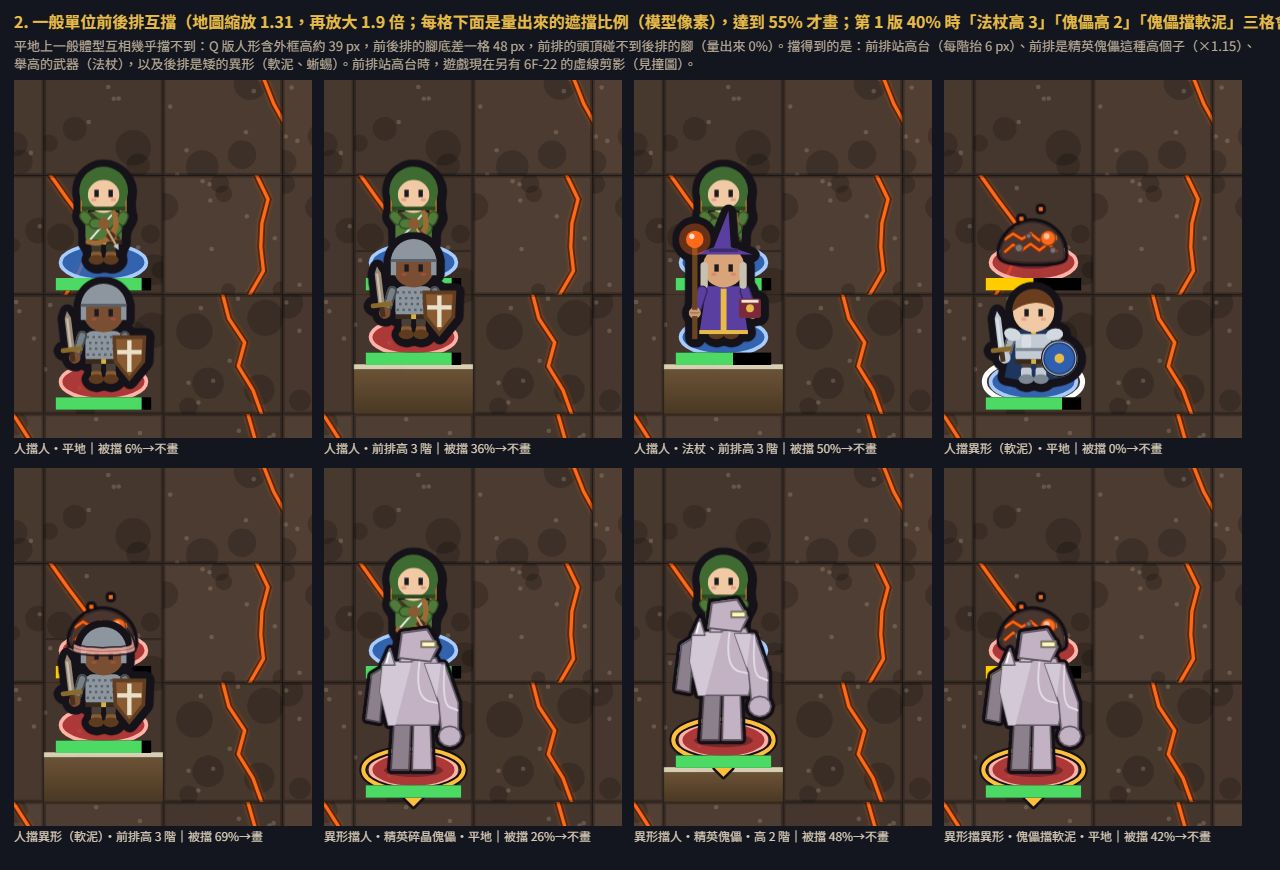
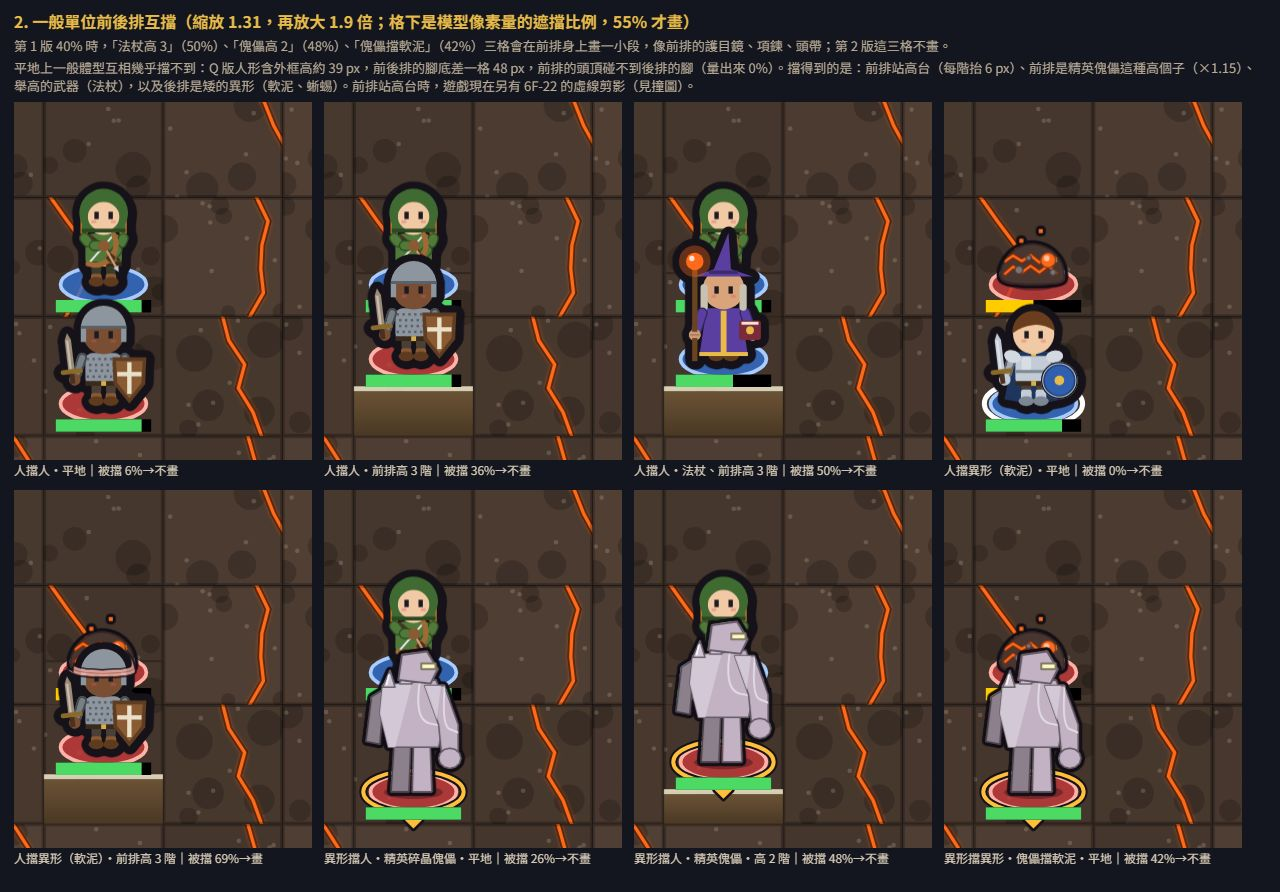
docs(art): occlusion outline v2 record and drawing notes

diff --git a/docs/art/sample/occlude-outline.html b/docs/art/sample/occlude-outline.html
@@ -112,7 +112,8 @@ PARTS.pair = () => {
   const C = (sc, cap) => cell(sc, V, {}, cap, "t");
   const flat = { cols: 4, rows: 4 }, hi = (h) => ({ cols: 4, rows: 4, heights: [[], [], [0, h, 0, 0]] });
   publish(sheet(1280, [
-    { title: "2. 一般單位前後排互擋（地圖縮放 1.31，再放大 1.9 倍；每格下面是量出來的遮擋比例（模型像素），達到 55% 才畫；第 1 版 40% 時「法杖高 3」「傀儡高 2」「傀儡擋軟泥」三格會在前排身上畫一小段）" },
+    { title: "2. 一般單位前後排互擋（縮放 1.31，再放大 1.9 倍；格下是模型像素量的遮擋比例，55% 才畫）" },
+    { note: "第 1 版 40% 時，「法杖高 3」（50%）、「傀儡高 2」（48%）、「傀儡擋軟泥」（42%）三格會在前排身上畫一小段，像前排的護目鏡、項鍊、頭帶；第 2 版這三格不畫。" },
     { note: "平地上一般體型互相幾乎擋不到：Q 版人形含外框高約 39 px，前後排的腳底差一格 48 px，前排的頭頂碰不到後排的腳（量出來 0%）。擋得到的是：前排站高台（每階抬 6 px）、前排是精英傀儡這種高個子（×1.15）、舉高的武器（法杖），以及後排是矮的異形（軟泥、蜥蜴）。前排站高台時，遊戲現在另有 6F-22 的虛線剪影（見撞圖）。" },
     { cells: [
       C(duo(U.archer({ id: "t", x: 1, y: 1 }), U.shield({ id: "f", x: 1, y: 2 }), flat), "人擋人・平地"),

diff --git a/docs/art/被遮擋剪影外框.md b/docs/art/被遮擋剪影外框.md
@@ -1,6 +1,7 @@
-# 被遮擋剪影外框（樣張第 1 版）
+# 被遮擋剪影外框（樣張第 2 版）
 
 > 畫圖 agent，2026-11-12（Opus 5.5）。只有樣張，沒有改遊戲端。過審後交使用者看，之後才寫移植需求。
+> 第 1 版 commit `a803414c`、`08a8e226`；審查 `被遮擋剪影外框-審查.md`（`2a15b805`）。第 2 版照審查改：門檻 55%／45%、透明度 0.8，其餘可修全做（逐條對照見第 9 節）。下面第 2～8 節已改成第 2 版的數字。
 
 ## 1. 依據
 
@@ -21,7 +22,8 @@
 1. 每個單位的**身體遮罩 M**：只要身體（不含地面環、影子、平塗光暈、HUD）。樣張的做法是同一個畫法再畫一次，只留用 `drawImage` 貼上的身體圖層。
 2. 對單位 u，**前排遮罩 O** ＝ 所有在 u **之後**畫的單位的身體遮罩聯集（南邊各排，加上同一排排在它後面的）。
 3. 比例 ＝ |M ∩ O| ÷ |M|，像素 alpha ≥ 0.5 才算。
-4. 比例 ≥ 門檻才畫。
+4. 比例 ≥ 門檻才畫（55%；上一次有畫的降到 45% 以下才拿掉）。
+5. **一律在模型像素算**（1 格 48、原點對齊整數模型像素），不隨地圖縮放、畫面放大、裝置像素變。第 1 版用畫面像素算，同一對在 ×1.9 與 ×4 量到 44% 與 37%；第 2 版樣張另畫一份模型像素的身體遮罩只用來算比例，同一對不管放在哪一格、怎麼裁、放大幾倍都量到同一個值。量測表（`?part=measure`）也是模型像素。
 
 只算單位擋單位。地形（高台崖面、屋頂）不算進 O，因為現在由 6F-22 的舊剪影負責（見 4.1）。
 
@@ -31,15 +33,25 @@
 - **襯黑邊**：色線兩側各 0.75 px 的 `#16121a`（Q 版外框色）。做法是 dilate(M, 0.75) ∩ dilate(反 M, w + 0.75)，畫在色線底下。
 - **只留被擋住的那一段**：上面兩圈都再 ∩ O（襯邊用 dilate(O, 0.75)）。
 - 襯邊和色線先在離屏疊成不透明的一層，**整層**再乘透明度貼上，這樣襯邊不會把色線壓暗。
-- **受擊閃白**：白閃強度 f（人形 0.85 → 0，90 ms 歸零；`motionClips.ts humanHit`）。換成 k ＝ f ÷ 0.85：色線顏色 ＝ mix(陣營色, 白, k)，整層透明度 ＝ 0.6 + 0.4k。線不變粗。
+- **受擊閃白**：k ＝ 當下白閃 ÷ **該片段的峰值**（不寫死人形的 0.85）：色線顏色 ＝ mix(陣營色, 白, k)，整層透明度 ＝ 0.8 + 0.2k。線不變粗。峰值（`OccludeOutline.PEAK`）：
+
+  | 片段 | 峰值 | 形狀 | 出處 |
+  |---|---|---|---|
+  | 人形受擊 | 0.85 | 0.85 → 0，360 ms 片段的 90 ms 歸零 | `client/src/render/motionClips.ts` `humanHit` |
+  | 人形重擊 | 0.95 | 0.95 → 0，120 ms 歸零 | `reactClips.ts` `hit(heavy)` |
+  | 異形受擊 | 0.9 | 前 20% 固定 0.9（400 ms 片段＝80 ms），之後 0 | `qCreatureAnim.ts` `hitCommon`、`creaturePose.ts` `hit` |
+  | 異形重擊 | 0.99 | 異形受擊 × 1.1（上限 1） | `reactClips.ts` `creatureReact` |
+  | 頭目受擊 | 0.9 | 前 20% 固定 0.9 | `qBoss.ts` `bossPlan`（`c === "hit" && u < 0.2 ? 0.9`） |
+  | 召喚物 | 照身體 | 人形身體走人形那兩列，異形身體走異形那兩列 | 同上 |
+
 
 ## 3. 選定數字與理由
 
 | 項目 | 選定 | 理由 |
 |---|---|---|
-| 門檻 | **40%**（量的是身體像素） | 量了 7 種目標 × 7 種前排 × 高度 0～3（`?part=measure`）。平地上一般人形互擋 0～9%（法杖 8%）；精英傀儡擋人 16～23%；頭目擋人 76～100%。20% 時，平地的精英傀儡擋人（只蓋到腳）也會畫，線多又沒有幫助。60% 時，「傀儡擋軟泥」（41%）、「傀儡站高 2 階擋人」（43～47%）這種下半身與所站格子都看不到的情況會漏掉。40% 是「所站的格子看不到」的分界（5a）。 |
+| 門檻 | **55% 開始畫、降到 45% 以下才拿掉**（第 2 版；第 1 版 40%／30%；量的是模型像素的身體像素） | 量了 7 種目標 × 7 種前排 × 高度 0～3（`?part=measure`，模型像素）。頭目擋任何人 74～100%，全部畫。人擋人（含前排高 3、法杖）最高 52%、精英傀儡站高 2 擋人 37～48%，全部不畫：第 1 版 40% 時這一群（被擋者的頭露在外面）只畫出一小段，落在前排的臉上、胸口，看起來像前排的護目鏡、項鍊、頭帶（審查必修 1）。仍會畫的：矮的異形在站高台的人後面（56～96%）、精英傀儡站高 3 擋人（57～60%）。55～70% 那段仍有配件感，見第 9 節。 |
 | 線寬 | **1.5 px**（螢幕 CSS px，不隨地圖縮放） | 1 px 在真 1 倍斷斷續續，在頭目亮橘的核心上幾乎看不到。2 px 加襯邊總寬 3.5 px，看起來像一個新的實心物件，會和頭目的部件縫線混在一起。 |
-| 透明度 | **0.6**（整層） | 0.4 在亮紫晶上不好找。0.8 像選取外框，而且蓋掉頭目的熔岩紋。 |
+| 透明度 | **0.8**（整層；第 2 版，第 1 版 0.6） | 0.6 時友方的淡藍疊在灰燼之心的橘色核心上變成灰色，800 寬要先知道在哪裡才找得到（審查必修 2）。0.8 時 1600 寬讀成淺藍／粉紅，不用並排就分得出陣營。第 1 版寫「0.8 像選取外框」不對：像選取的是**整圈＋不透明**（`9-collide` 第 3 列第 1 格）；只畫被擋那一段時，0.8 的外框只落在頭目身上、不繞被擋者露出的部分，沒有選取感（第 3 格）。熔岩紋只被 1.5 px 的線蓋到一點，頭目認得出來。 |
 | 顏色 | **`RING` 的外框色**：友方 `#a9ccff`、敵方 `#ffb3a8`（第三方 `#dcb3ff`、召喚 `#8ff0e2`） | 出處 `client/src/render/artPalette.ts` 的 `RING`（腳下圈），和現有 6F-22 遮擋剪影同色。`RING.fill`（`#2f6fd0`／`#c63b3b`）與 `TEAM_COLORS`（`client/src/battle/glossary.ts`，`#2f7de1`／`#d23c3c`）在玄武岩殼上太暗。HP 條依血量變色，不是陣營色，不採用。 |
 | 襯黑邊 | **0.75 px × 2 邊**（**新增，初案沒有**） | 只有淺色線時，在碎晶之主的淡紫晶、灰燼之心的亮橘核心上幾乎看不到（第 4 張第 1 欄）。加了黑邊後，深底、淺底都讀得出來（第 2 欄）。 |
 | 範圍 | **只畫被擋住的那一段**（初案寫「只畫輪廓」，這裡再限縮） | 露出來的部分本來就有黑外框，再描一圈色線會像「被選取」。頭目擋人時兩種畫法幾乎一樣（擋了 90% 以上），差在擋一半的情況。 |
@@ -47,23 +59,24 @@
 
 ## 4. 我看到
 
-- **頭目擋人（第 1、7 張）**：灰燼之心擋主角 96%、擋餘燼蜥 100%；碎晶之主擋法師 97%、擋持盾盜匪 92%。現況只看得到頭目，加外框後讀得出「頭目後面有一個人」，也看得出陣營（藍／粉紅）。人形剪影是大頭加短身體，認得出是一個 Q 版人；異形（餘燼蜥）是一條扁長的形，認不出種類，只知道「有東西」。
-- **一般互擋（第 2 張）**：平地上人擋人、人擋異形都是 0%，不會畫。真的會畫的是：法杖、前排站高 3 階（41%）、軟泥被站高 3 階的盜匪擋（56%）、精英傀儡站高 2 階（47%）、平地的傀儡擋軟泥（40%）。前排站高台的情況，遊戲現在本來就有 6F-22 的虛線剪影（4.1）。
-- **受擊（第 3 張）**：0 ms 外框整圈白、30 ms 偏白、60 ms 回到陣營色。露出的身體照舊整片閃白，所以「被打的是被擋住的那個人」看得出來。星爆特效畫在外框上面。
+- **頭目擋人（第 1、7 張）**：頭目擋人量到 74～100%（模型像素）。現況只看得到頭目，加外框後讀得出「頭目後面有一個人」；第 2 版 0.8 時陣營（淺藍／粉紅）不用並排就分得出（第 1 版 0.6 時友方在橘色核心上像灰色）。人形剪影是大頭加短身體，認得出是一個 Q 版人；異形（餘燼蜥）是一條扁長的形，認不出種類，只知道「有東西」。
+- **一般互擋（第 2 張）**：平地上人擋人、人擋異形 0～6%，不會畫。第 2 版 55% 時，8 格裡只剩「軟泥被站高 3 階的持盾盜匪擋」（69%）會畫；法杖前排高 3（50%）、精英傀儡高 2（48%）、平地傀儡擋軟泥（42%）第 1 版會畫、第 2 版不畫。前排站高台的情況，遊戲現在本來就有 6F-22 的虛線剪影（4.1）。
+- **受擊（第 3 張）**：人形 0 ms 外框整圈白、30 ms 偏白、60 ms 回到陣營色；異形（第 3 列）前 80 ms 整圈白、90 ms 起回到陣營色。露出的身體照舊整片閃白，所以「被打的是被擋住的那個人」看得出來。星爆特效畫在外框上面。
 - **真 1 倍（第 6 張兩張）**：1600 寬（一格 62.8 px）時，色線約 1～2 像素、加襯邊共 3 像素，輪廓連續。800 寬（一格 25.5 px）時，人形只有約 20 px 高，3 像素寬的輪廓看起來是一團「圓頭＋身體」，細節（盾、武器）全沒了，只剩「這裡有一個人」。
-- **整張戰場（第 7、8 張）**：1600 寬讀得到。800 寬勉強，要知道它在那裡才看得到。
+- **整張戰場（第 7、8 張）**：1600 寬讀得到。800 寬第 1 版（0.6）要知道在那裡才看得到；第 2 版（0.8）一眼找得到頭目身上有一圈淺藍，但仍只知道「有一個人」。
 
 ### 4.1 撞圖（第 9 張）
 
 | 和什麼 | 會不會混 | 說明 |
 |---|---|---|
+| 傳說金頭目外光（第 2 版補） | 不會 | 碎晶之主的金色外光是 0.8 不透明、算進前排遮罩，所以擋人時外框下半段走在金色光帶上。淺藍／粉紅線加黑襯邊疊在寬的金帶上分得開（`9-collide` 第 3 列第 4 格、`3-flash` 第 2 列、`1-boss` 第 2 列）。 |
 | 受擊白影 | 不會 | 目標受擊時，露出的部分整片白、被擋的部分外框白，兩者合起來是同一個人形。頭目受擊時頭目整片白，目標的外框照舊是陣營色、浮在白色上，仍讀得到。 |
 | 選取框（輪到誰的黃虛線圈） | **不會撞，但看不到** | 黃圈在腳下、被頭目蓋住，外框不會告訴你「輪到他」。見第 5 節。 |
 | 滑鼠白框 | 輕微 | 白框是方的、在外框之上；外框受擊變白的那一兩格會和白框疊在一起，但形狀不同，分得開。 |
 | 腳下圈 | 不會 | 外框只畫身體，不畫環。被擋的人的環也被頭目蓋住，看不到。 |
 | 狀態列、HP 條 | 不會 | 被擋的人的 HP 條、狀態列在他那一排的 HUD 層，本來就被南邊一排的頭目蓋住（現況就是這樣）。外框沒有把它們拉出來。頭目自己的 HUD 在剪影上方，和外框的頭頂很近，樣張裡沒有重疊（頭目 HUD 的位置是近似的，實機要再看）。 |
 | Q 版本身的黑外框 | 有一點 | 襯黑邊和 Q 版外框同色，外框看起來像「一個半透明、畫在前面的 Q 版輪廓」。因為整層 0.6，讀起來還是「疊上去的」。改成不透明、整圈都畫，就會像選取效果（第 9 張右下，不採用）。 |
-| **6F-22 高台遮擋剪影** | **會撞** | 前排站高台時，兩種都會畫：舊的是固定的人形虛線（身體橢圓＋頭圓），新的是真實輪廓。舊的不看體型，套在軟泥上會在軟泥頭上多畫一個人形（第 9 張左下）。建議由新外框取代（第 6 節）。 |
+| **6F-22 高台遮擋剪影** | 第 1 版會撞；第 2 版樣張已照規則分開 | 舊的是固定的人形虛線（身體橢圓＋頭圓），不看體型，套在軟泥上會在軟泥頭上多畫一個人形（`9-collide` 第 2 列第 1 格）。兩個都畫很亂（第 2 格，第 1 版）。第 2 版：**同一個單位有新外框時不畫舊的**（第 3 格）；沒達門檻、或只被地形擋時舊的照畫（第 4 格，晶塔 38%）。 |
 
 ## 5. 仍不好認
 
@@ -71,49 +84,98 @@
 2. **異形的剪影**：蜥蜴、軟泥這種扁的、圓的形，輪廓讀不出種類。
 3. **被擋的人是不是輪到他**：黃色虛線圈在腳下、被蓋住，外框沒有表達「現在行動」。要靠行動順序列。
 4. **被擋住的人的血量與狀態**：HP 條、狀態列照舊被蓋住（現況就是這樣，這次沒處理）。
-5. **門檻附近會閃**：比例在 40% 上下（例如法杖、前排高 3 階量到 38～41%，算的解析度不同就差幾 %），待機呼吸或出招時會一下畫一下不畫。移植時要做遲滯（第 6 節）。
+5. **門檻附近會閃**：第 2 版比例固定在模型像素算，不再隨解析度跳；離 55% 最近的是「盜匪在高 3 法師後」52%（不畫）與「餘燼蜥在高 3 持盾盜匪後」56%（畫）。待機呼吸、出招仍會讓比例變幾 %，所以照留遲滯（55% 開始、45% 拿掉）。
+6. **55～70% 那段仍像前排的配件**（第 2 版放大看的結論，第 9 節）。
 
 ## 6. 給開發移植的重點（建議，未改遊戲端）
 
 1. **放哪一層**：用現成的 `silhouettes` 容器（排與 HUD 之上、`hudTop`、`hover`、特效之下）。每個被擋的單位一張外框 Sprite，跟著那個單位的位置走。
 2. **遮擋比例**：
    - 什麼時候算：只在擺位改變時算（`draw(model)`、移動結束、換姿勢、轉向），**不要每格都算**。待機用第 0 格的姿勢算。
-   - 怎麼算：用每個單位身體貼圖的 alpha，在模型像素（1 格 48）或更低的解析度（每 2 模型像素取 1）上，用 CPU 求 |M ∩ O| ÷ |M|。身體貼圖本來就在 `ArtTextures` 裡有快取（白閃用的 `whiteCanvas` 也是從同一張畫布來）。alpha 遮罩照貼圖的鍵快取，同一個鍵只取一次 `getImageData`。
+   - 怎麼算：用每個單位身體貼圖的 alpha，**一律在模型像素（1 格 48）上算，不隨地圖縮放**（原點對齊整數模型像素），用 CPU 求 |M ∩ O| ÷ |M|。不要用畫面像素或「每 2 模型像素取 1」：解析度不同，同一對會差到 7 個百分點（第 1 版 37%／44%）。樣張的量測表就是模型像素量的。身體貼圖本來就在 `ArtTextures` 裡有快取（白閃用的 `whiteCanvas` 也是從同一張畫布來）。alpha 遮罩照貼圖的鍵快取，同一個鍵只取一次 `getImageData`。
    - 只比對有可能重疊的：前排要在 u 南邊 0～3 排，而且外接矩形和 u 的外接矩形相交。一般只有 0～2 個。
    - 只算單位身體。不算環、影子、HUD、特效。
-3. **遲滯**：比例 ≥ 40% 開始畫，降到 < 30% 才拿掉。走路、擊退、出招片段播放中不重算，沿用片段開始前的結果（片段結束再算一次）。
+3. **遲滯**：比例 ≥ 55% 開始畫，降到 < 45% 才拿掉。走路、擊退、出招片段播放中不重算，沿用片段開始前的結果（片段結束再算一次）。
 4. **外框貼圖**：每個「身體貼圖鍵 × 縮放級距」做一次：先算色線帶與襯邊帶（樣張 `band()`：圓盤膨脹用 0.5 px 步距的多次 `drawImage`，或 Pixi 的濾鏡），再 ∩ 前排遮罩（前排遮罩因擺位而變，這一步跟著比例一起在擺位改變時做）。線寬照**螢幕 CSS px** 算：模型 px ＝ 1.5 ÷ 地圖縮放（800 寬 0.53 → 2.8 模型 px；1600 寬 1.31 → 1.15 模型 px）。
-5. **受擊閃白**：色線用白色畫進貼圖，襯邊用黑色畫，Sprite.tint ＝ mix(陣營色, 白, k)，alpha ＝ 0.6 + 0.4k（k ＝ 白閃 ÷ 0.85，和身體白閃同一個值）。tint 是相乘，黑色襯邊不受影響，不用另外做貼圖。
+5. **受擊閃白**：色線用白色畫進貼圖，襯邊用黑色畫，Sprite.tint ＝ mix(陣營色, 白, k)，alpha ＝ 0.8 + 0.2k。**k ＝ 該單位當下的白閃 ÷ 正在播的片段的峰值**（人形受擊 0.85、人形重擊 0.95、異形與頭目受擊 0.9、異形重擊 0.99；召喚物照身體；出處見 2.2），不要寫死 0.85。tint 是相乘，黑色襯邊不受影響，不用另外做貼圖。
 6. **陣營色**：`RING[team].stroke`（召喚物用 `RING.summon.stroke`），和 6F-22 一樣，不新增色票。
-7. **通用**：玩家、NPC、異形、頭目、召喚物都走同一條路（都有身體貼圖）。不畫外框的：倒下的人（倒地圖示）、**隱匿中（`concealed`）或資訊被隱藏的敵人**。這兩種畫了外框會洩漏位置，要照現在的可見規則先過濾。
-8. **6F-22 的舊剪影**：建議之後把高台崖面、屋頂也畫進前排遮罩，用同一個外框取代虛線橢圓。舊的是固定人形，套在異形、頭目身上是錯的形。這一步要另外決定（第 7 節第 3 點），樣張只示範撞在一起的樣子。
+7. **通用**：玩家、NPC、異形、頭目、召喚物都走同一條路（都有身體貼圖）。不畫外框的：倒下的人（倒地圖示）、**隱匿中（`concealed`）或資訊被隱藏的敵人**。這兩種畫了外框會洩漏位置，要照現在的可見規則**在算比例之前**先過濾（樣張的單位帶 `concealed: true` 就不畫）。
+8. **6F-22 的舊剪影，分兩步**：
+   - **這次移植就做**：同一個單位這一格有新外框時，不畫舊剪影（樣張 `render` 已照這條：`9-collide` 第 2 列第 3 格）。沒畫新外框的（沒達門檻、或只被地形擋）照舊畫舊剪影，**不能先拿掉**。
+   - **之後另排一段**：把高台崖面、屋頂也算進前排遮罩，讓新外框涵蓋地形遮擋，再拿掉舊剪影。舊的是固定人形，套在異形、頭目身上是錯的形。
 9. **效能預估**：12×12 地圖、最多約 12 個單位，擺位改變時每個單位最多比 2～3 對，遮罩每個約 60×60 模型像素，CPU 運算在 1 ms 以內。外框貼圖照鍵快取。每格的成本只有幾張 Sprite 的 tint／alpha。
 
 ## 7. 交使用者時要講明
 
-1. 數字和初案相同（40%、1.5 px、0.6、陣營色、閃白、圖層），但**多了兩點**：色線兩側各襯 0.75 px 黑邊（不然在淺紫晶、亮橘核心上看不到），以及**只畫被擋住的那一段**（露出來的部分不重描）。
-2. **平地上一般單位互相幾乎擋不到**（量出來 0%），外框實際上幾乎只出現在：頭目、精英傀儡這種高個子的後面，以及前排站高台的時候。
-3. 前排站高台時，遊戲現在已經有一個舊的虛線人形剪影（6F-22）。這次樣張只在撞圖示範兩個一起畫的樣子；要不要用新外框取代舊的，請使用者決定。
-4. 800 寬時外框只能告訴你「這裡有一個人」，看不出是誰。
+1. 數字和初案**不同兩項**：門檻 **55%（降到 45% 才拿掉）**（初案 40%）、透明度 **0.8**（初案 0.6）；線寬 1.5 px、陣營色、閃白、圖層同初案。另外**多了兩點**：色線兩側各襯 0.75 px 黑邊（不然在淺紫晶、亮橘核心上看不到），以及**只畫被擋住的那一段**（露出來的部分不重描）。
+2. 外框實際上幾乎只出現在：**頭目、精英傀儡這種高個子的後面**，以及**矮的異形躲在站高台的人後面**。一般人擋人（含前排站高台）都不畫，因為頭露在外面本來就認得出。
+3. **55～70% 的人形或精英傀儡前排，外框那一段仍像前排的配件**（第 9 節）。要使用者選：照 55% 接受、或只給頭目（提案 C）。
+4. 6F-22 舊剪影：**這次移植時同一單位有新外框就不畫舊剪影**；之後另排一段把崖面、屋頂算進遮擋，再拿掉舊剪影（在那之前，只被地形擋的仍靠舊剪影）。
+5. 800 寬時外框只能告訴你「這裡有一個人，是友是敵」，看不出是誰；被擋的人是不是輪到他、血量多少，外框都不會告訴你（要靠行動順序列）。
+6. 隱匿中、資訊被隱藏的敵人、倒下的人不畫外框（畫了會洩漏位置）。
 
 ## 8. 檔案與重拍
 
 - 畫法檔 `sample/occludeOutline.js`、樣張頁 `sample/occlude-outline.html`。分段：`?part=boss`、`pair`、`flash`、`team`、`tune`、`true1x&w=1600｜800`、`field&w=1600｜800`、`collide`、`measure`（量測表文字），以及 `probe&s=ah-ally｜ah-enemy｜sl-ally｜sl-enemy｜mage3｜ooze-golem｜golem2&z=&ink=&alpha=&width=`（單一場景放大自查）。
 - 重拍：`uv run python -I docs/art/sample/tools/occlude_shots.py <暫存資料夾> [名稱…] [--out <資料夾>]`；`--measure` 印量測表；`--query "part=probe&s=sl-ally&z=4"` 拍單張到 `<out>/probe.jpg`。頁面把整段畫成一張 canvas，腳本用無頭 Chrome `--dump-dom` 取出 data URL 直接存檔，所以像素就是 canvas，不受視窗大小、DPR 影響。
-- 截圖（10 張）：
+- 截圖（11 張，第 2 版全部重拍；審查補拍的 `closeup/occlude/review-*` 留著，是第 1 版的數字）：
 
 | 檔案 | 內容 |
 |---|---|
 | `shots/occlude/1-boss.jpg` | 第 1 項：灰燼之心（CB-4 情境）、碎晶之主各擋友方、敵方；左邊是現況 |
 | `shots/occlude/2-pairs.jpg` | 第 2 項：人擋人、人擋異形、異形擋人、異形擋異形（平地與高台） |
-| `shots/occlude/3-flash.jpg` | 第 3 項：受擊 0／30／60／90／180／300 ms，兩位頭目各一列 |
+| `shots/occlude/3-flash.jpg` | 第 3 項：受擊 0／30／60／90／180／300 ms，兩位頭目擋人形各一列，第 3 列灰燼之心擋餘燼蜥（異形峰值 0.9） |
 | `shots/occlude/4-team.jpg` | 第 4 項：友方、敵方 × 四種配色（含選定的襯黑邊） |
-| `shots/occlude/5-tune.jpg` | 第 5 項：門檻約 20／40／60%、線寬 × 透明度 9 格 × 2、只畫被擋段 vs 整圈、襯邊 vs 只有色線 |
+| `shots/occlude/5-tune.jpg` | 第 5 項：門檻（傀儡擋弓手 26／48／60%、傀儡擋軟泥 42%；標第 1 版 40% 與第 2 版 55% 畫不畫）、線寬 × 透明度 9 格 × 2（選定 1.5 px・0.8）、只畫被擋段 vs 整圈、襯邊 vs 只有色線 |
 | `closeup/occlude/6-true1x-1600.png` | 第 6 項：真 1 倍（一格 62.8 px）＋最近鄰 ×3 |
 | `closeup/occlude/6-true1x-800.png` | 第 6 項：真 1 倍（一格 25.5 px）＋最近鄰 ×6 |
 | `shots/occlude/7-field-1600.jpg` | 第 6 項：整張熔心坑，1600 寬的縮放 1.31（1 倍） |
 | `shots/occlude/8-field-800.jpg` | 第 6 項：整張熔心坑，800 寬的縮放 0.53（1 倍） |
-| `shots/occlude/9-collide.jpg` | 撞圖：受擊白影、頭目受擊、輪到誰的黃圈、滑鼠白框＋狀態列、6F-22 舊剪影、整圈不透明對照 |
+| `shots/occlude/9-collide.jpg` | 撞圖：受擊白影、頭目受擊、輪到誰的黃圈、滑鼠白框＋狀態列；6F-22 舊剪影（現況／第 1 版兩個都畫／第 2 版有新外框就不畫舊的／未達門檻舊的照畫）；整圈不透明／整圈 0.8／選定 0.8／傳說金外光 |
+| `closeup/occlude/10-fragment-55-70.jpg` | 第 2 版：前排是人形或精英傀儡、被擋 55～70% 的 6 對（無｜有），加提案 A（70% 時還會畫的 4 對）、提案 B（虛線） |
 
 - 縮放怎麼算的：照 `stageLayout.ts` 的 `fitScale` 與 `hudSideInsets`，用熔心坑 12×12（588×630 模型像素，上方預留取約 54）。1600×900 視窗 → min(1076/588, 824/630) ＝ 1.31；800×600 視窗 → min(312/588, 524/630) ＝ 0.53。截圖只有地圖，沒有 HUD 欄。
+- 樣張自己的參數：`opt.was={id:true}`（上一次有畫，用 45%）、`opt.legacyAlways`（第 1 版的兩個都畫）、`opt.dash／gap`（提案 B 的虛線試做，預設不用）、單位 `concealed: true`（不畫外框）。
 - 樣張和遊戲不同的地方：沒有畫朝向三角形；頭目 HUD 的位置用「身體遮罩頂端 − 8」近似 `bossHudDy`；受擊特效用樣張的星爆，時間沒有照 CB-4 片段。
+
+## 9. 第 2 版（2026-11-12，照 `被遮擋剪影外框-審查.md`）
+
+保留不動：色線兩側 0.75 px 黑襯邊、只畫被擋住的那一段、線寬 1.5 px（螢幕 CSS px）、顏色 `RING.stroke`（友 `#a9ccff`、敵 `#ffb3a8`）。
+
+### 9.1 逐條對照
+
+| 審查 | 第 2 版怎麼做 | 看哪張 |
+|---|---|---|
+| 必修 1：門檻改 55% 開始、45% 以下拿掉 | `OccludeOutline.DEF` 改 `threshold: 0.55`、`release: 0.45`（`opt.was[id]` 表示上一次有畫，就用 0.45）。人擋人（最高 52%）、精英傀儡高 2 擋人（37～48%）、傀儡擋軟泥（42%）都不畫了；第 1 版的護目鏡、項鍊、頭帶三格消失。 | `2-pairs`、`5-tune` 5a、`9-collide` 第 2 列 |
+| 必修 1：放大看 55～70% 人形／精英傀儡前排 | 另拍 `10-fragment-55-70.jpg`。**結論：仍像配件**，見 9.2。 | `10-fragment-55-70` |
+| 必修 2：透明度 0.6 → 0.8 | `DEF.alpha: 0.8`；閃白時 0.8 + 0.2k。1600 寬友方讀成淺藍、不再是灰；800 寬整張圖一眼找得到頭目身上那一圈。 | `1-boss`、`4-team`、`6-true1x-*`、`7`、`8`、`5-tune` 5b |
+| 可修 1：撞圖表補傳說金頭目外光 | 4.1 補一列；`9-collide` 第 3 列第 4 格。 | `9-collide` |
+| 可修 2：閃白峰值不寫死 0.85 | `OccludeOutline.PEAK`（人形受擊 0.85、人形重擊 0.95、異形與頭目受擊 0.9、異形重擊 0.99、召喚物照身體；出處在 2.2）。`3-flash` 加第 3 列：灰燼之心擋餘燼蜥，異形受擊前 80 ms 固定 0.9，k＝1 整圈白；撞圖的頭目受擊改用 0.9。 | `3-flash`、`9-collide` 第 1 列 |
+| 可修 3：比例固定在模型像素 | `render` 另畫一份模型像素（原點對齊整數）的身體遮罩，只用來算比例。同一對不管在哪一格、怎麼裁、放大幾倍都同一個值（量測表與 `10-fragment` 的格子對得上）。移植重點第 2 點改寫。 | `?part=measure` |
+| 可修 4：第 69 行殘留 | `(u.dx ? 0 : 0)` 刪掉。 | — |
+| 可修 5：「0.8 像選取」改寫 | 第 3 節透明度一列改寫：像選取的是整圈＋不透明；只畫被擋段時 0.8 沒有選取感。`9-collide` 第 3 列排了整圈不透明／整圈 0.8／選定 0.8 三格對照。 | `9-collide` 第 3 列 |
+| 第 5 節（6F-22） | 樣張 `render` 照規則：同一單位有新外框就不畫舊剪影（`legacyAlways` 是第 1 版對照）。移植重點第 8 點、交使用者第 4 點寫明兩步。 | `9-collide` 第 2 列 |
+| 隱匿中、資訊被隱藏的敵人 | 移植重點第 7 點補「在算比例之前先過濾」；樣張單位帶 `concealed: true` 就不畫。交使用者第 6 點。 | — |
+
+### 9.2 55～70% 人形或精英傀儡前排放大看的結論：**仍像前排的配件**
+
+`10-fragment-55-70.jpg` 前 3 列（縮放 1.31 再放大 3 倍，55%、0.8）：
+
+- 弓手、盜匪在高 3 精英傀儡後（60%、59%）：傀儡胸口一個 U 形淺藍／粉紅圈，像**項鍊、領口**。被擋者的頭整個露在傀儡頭後面，本來就認得出是誰。
+- 軟泥在高 3 主角後（57%）：主角額頭一條粉紅橫帶，像**頭帶**。
+- 餘燼蜥在高 3 持盾盜匪後（56%）：頭盔上一圈粉紅，像**頭盔的飾條**。
+- 餘燼蜥在高 2 法師後（67%）、晶塔在高 3 法師後（66%）：粉紅線繞在帽簷、帽身上，像**帽子的花邊**。
+
+原因：前排和被擋者差不多大時，外框整段落在前排身上、範圍比前排小，讀起來就是前排身上的一個零件。頭目擋人時，外框是一個完整的小人形浮在大身體上，才讀得出「後面有一個人」。
+
+另外試了兩個做法（只在樣張試，**沒有改選定值**）：
+
+- **提案 A：門檻再拉到 70%（降到 60% 才拿掉）**——第 4 列。頭目擋人最低 74%（法師在灰燼之心後），全部仍會畫；但 70% 以上的人形／傀儡前排（餘燼蜥在高 2 傀儡後 70%、軟泥在高 1 傀儡後 72%、餘燼蜥在高 3 法師後 73%、軟泥在高 2 法師後 78%）外框仍落在前排身上，像**腰帶、領口、帽緣**。**不解決**，而且和頭目只差 4 點。
+- **提案 B：外框改虛線**（實線 3 px、空 2 px，同 6F-22 的虛線語言）——第 5 列。傀儡胸口那圈變成虛線後比較像「後面的輪廓」，配件感少一點；但餘燼蜥、晶塔這種輪廓轉折多的，虛線碎成一堆短斜線，比實線更亂。800 寬時 1.5 px 的 3／2 虛線會斷成點（沒另拍）。**部分解決**，樣張的虛線是近似做法（以中心切扇形），移植要沿輪廓長度切才會均勻。
+
+**建議（提案 C，要使用者決定）：只在前排是頭目時畫**（或「前排身體像素 ≥ 被擋者的 2 倍」這種體型條件，效果相同：只有頭目、超大型異形會過）。理由：
+1. 這次要解的是 CB-4「頭目擋住目標」，頭目擋人 74～100%，外框讀得出「後面一個人」，沒有配件感。
+2. 人形、精英傀儡前排的情況，被擋者多半露頭或露尾巴，本來就看得到；外框加上去只多一件不存在的配件。
+3. 其中站高台的情況，遊戲現在本來就有 6F-22 的舊剪影。
+
+若使用者要保留 55%，接受「55～70% 那段會像配件」即可，畫法不用再改。選定值目前照審查留在 55%／45%。

diff --git a/docs/art/上手-畫法.md b/docs/art/上手-畫法.md
@@ -1,6 +1,6 @@
 # 畫圖 agent 上手：Q 版畫法
 
-> 給新派的畫圖 agent，開工前讀這一份。只寫事實與做法。2026-11-12，畫圖 agent 整理（第 2 批防具飾品後補了第 1 節檔案表、2.6 與第 4 節指令；同日第 1 批第 2 版後補了 2.5、4.4 與第 6 節；第 3 版後再補 2.5 與第 6 節；第 2 批第 3 版後改了 2.6 的染色做法、補第 6 節）（依據「小圖示改 Q 版」第 1 批實際做過、讀過的內容；沒確認過的檔案只列檔名與檔頭自述）。 第 3 批技能主圖後補 2.7、第 1 節檔案表與第 4 節指令；第 3 批第 2 版後補第 6 節；第 3 批第 3 版後再補第 6 節。第 4 批徽章與部件後補 2.8、第 1 節檔案表與第 4 節指令。同日補真 1 倍檢查（各頁 `?part=true1x`、`qicons_shots.py true1x`，改了 4.1、4.2、4.4 與第 1 節檔案表）。前三批真 1 倍修正後補 2.5 最後一條、第 6 節一列。第 4 批第 2 版後補 2.8 後半、2.5 的貼法現況與第 6 節第 4 批一表。第 5 批狀態後補 2.9、第 1 節檔案表與第 4 節指令（`status` 改指第 5 批，風格樣張的狀態特寫叫 `style-status`）。第 5 批第 2 版後改 2.9、補第 6 節第 5 批一表與第 4 節 `status-v2`。第⑤b 批關鍵字與 QI-1a 驗收後同步後補 2.10、第 1 節檔案表（`qIconsKeywords.js`、`def(look, icon)`）與第 4 節指令（`keywords`、`--hash var`、`--audit r6`）。第⑤b 批第 2 版後改 2.10（角落改成右下為主＋例外表）、補第 6 節第⑤b 批一表與第 4 節 `keywords-bag`、`keywords-v2`、`--hash keywords`。11-12 補道具與第④批補圖後補 2.11 與第 4 節 `skills-add`、`parts-v3`。11-12 補道具第 2 版後補第 6 節一表與第 4 節 `skills-add-v2`。 11-12 被遮擋剪影外框後補 4.5（畫法檔、頁面、`occlude_shots.py`）。
+> 給新派的畫圖 agent，開工前讀這一份。只寫事實與做法。2026-11-12，畫圖 agent 整理（第 2 批防具飾品後補了第 1 節檔案表、2.6 與第 4 節指令；同日第 1 批第 2 版後補了 2.5、4.4 與第 6 節；第 3 版後再補 2.5 與第 6 節；第 2 批第 3 版後改了 2.6 的染色做法、補第 6 節）（依據「小圖示改 Q 版」第 1 批實際做過、讀過的內容；沒確認過的檔案只列檔名與檔頭自述）。 第 3 批技能主圖後補 2.7、第 1 節檔案表與第 4 節指令；第 3 批第 2 版後補第 6 節；第 3 批第 3 版後再補第 6 節。第 4 批徽章與部件後補 2.8、第 1 節檔案表與第 4 節指令。同日補真 1 倍檢查（各頁 `?part=true1x`、`qicons_shots.py true1x`，改了 4.1、4.2、4.4 與第 1 節檔案表）。前三批真 1 倍修正後補 2.5 最後一條、第 6 節一列。第 4 批第 2 版後補 2.8 後半、2.5 的貼法現況與第 6 節第 4 批一表。第 5 批狀態後補 2.9、第 1 節檔案表與第 4 節指令（`status` 改指第 5 批，風格樣張的狀態特寫叫 `style-status`）。第 5 批第 2 版後改 2.9、補第 6 節第 5 批一表與第 4 節 `status-v2`。第⑤b 批關鍵字與 QI-1a 驗收後同步後補 2.10、第 1 節檔案表（`qIconsKeywords.js`、`def(look, icon)`）與第 4 節指令（`keywords`、`--hash var`、`--audit r6`）。第⑤b 批第 2 版後改 2.10（角落改成右下為主＋例外表）、補第 6 節第⑤b 批一表與第 4 節 `keywords-bag`、`keywords-v2`、`--hash keywords`。11-12 補道具與第④批補圖後補 2.11 與第 4 節 `skills-add`、`parts-v3`。11-12 補道具第 2 版後補第 6 節一表與第 4 節 `skills-add-v2`。 11-12 被遮擋剪影外框後補 4.5（畫法檔、頁面、`occlude_shots.py`）；同日第 2 版後改 4.5（預設值、模型像素量比例、`PEAK`、`fragment`、學到的）。
 > 細節的真相來源：圖示規則 `Q版小圖示樣張.md` 第 2 節；審查紀錄 `Q版小圖示樣張-審查.md`；品質底線 `../美術PM交接.md` 第 3 節；樣張檔一覽 `sample/README.md`。
 
 ## 1. 畫法檔在哪、各管什麼
@@ -295,12 +295,12 @@ uv run python docs/art/sample/tools/qicons_shots.py --page q-icons-parts.html --
 
 ### 4.5 被遮擋剪影外框（11-12）
 
-- 畫法檔 `sample/occludeOutline.js`：`OccludeOutline.render(scene, view, opt)` 畫一個戰場場景（單位呼叫 `QDoll.stamp`、`QCreature.stamp`、`QBoss.drawAshenHeart／drawShardLord`，地面 `Regions4.tile`），回傳 `{ canvas, stats:[{ id, ratio, drawn }] }`。`view＝{ S 遊戲地圖縮放, zoom 另外放大, res 裝置像素, x0, y0, w, h 模型像素裁切 }`；`opt` 的預設值在 `OccludeOutline.DEF`（門檻 0.4、線寬 1.5、透明度 0.6、`tone: "stroke"`、`clip: "hidden"`、襯黑邊 `ink: 0.75`）。遊戲端常數（格 48、`DOLL_PX`、`FEET`、`RAISE`、`RING`）照抄在檔頭。
-- 樣張頁 `sample/occlude-outline.html`：`?part=boss｜pair｜flash｜team｜tune｜true1x&w=1600｜800｜field&w=1600｜800｜collide｜measure`；`?part=probe&s=ah-ally&z=4&ink=0.75` 是單一場景放大自查。每段畫成**一張 canvas**，data URL 放在 `<textarea id="out">`。
+- 畫法檔 `sample/occludeOutline.js`：`OccludeOutline.render(scene, view, opt)` 畫一個戰場場景（單位呼叫 `QDoll.stamp`、`QCreature.stamp`、`QBoss.drawAshenHeart／drawShardLord`，地面 `Regions4.tile`），回傳 `{ canvas, stats:[{ id, ratio, drawn }] }`。`view＝{ S 遊戲地圖縮放, zoom 另外放大, res 裝置像素, x0, y0, w, h 模型像素裁切 }`；`opt` 的預設值在 `OccludeOutline.DEF`（第 2 版：門檻 0.55、`release: 0.45`（`opt.was[id]` 上一次有畫才用）、線寬 1.5、透明度 0.8、`tone: "stroke"`、`clip: "hidden"`、襯黑邊 `ink: 0.75`）。遮擋比例一律在**模型像素**算（`render` 另畫一份原點對齊整數的模型像素遮罩），不隨 `S`、`zoom`、`res` 變。受擊白閃的峰值表在 `OccludeOutline.PEAK`（人形 0.85／重擊 0.95、異形與頭目 0.9、異形重擊 0.99），外框 `opt.flash[id]` 傳的是 k＝白閃 ÷ 峰值。其他：`opt.legacyAlways`（6F-22 舊剪影照畫；預設有新外框就不畫）、`opt.dash／gap`（虛線試做）、單位 `concealed: true`（不畫外框）。遊戲端常數（格 48、`DOLL_PX`、`FEET`、`RAISE`、`RING`）照抄在檔頭。
+- 樣張頁 `sample/occlude-outline.html`：`?part=boss｜pair｜flash｜team｜tune｜true1x&w=1600｜800｜field&w=1600｜800｜collide｜fragment｜measure`（`fragment`＝55～70% 人形／傀儡前排放大＋提案 A、B）；`?part=probe&s=ah-ally&z=4&ink=0.75` 是單一場景放大自查。每段畫成**一張 canvas**，data URL 放在 `<textarea id="out">`。
 - 腳本（不用 `--screenshot`，直接從 `--dump-dom` 取出 canvas 存檔，像素不受視窗大小、DPR 影響；jpg 品質 80，真 1 倍是 png）：
 
 ```bash
-uv run python -I docs/art/sample/tools/occlude_shots.py <暫存資料夾>                 # 10 張全部重拍（shots/occlude/、closeup/occlude/）
+uv run python -I docs/art/sample/tools/occlude_shots.py <暫存資料夾>                 # 11 張全部重拍（shots/occlude/、closeup/occlude/；review-* 是審查拍的，不會動）
 uv run python -I docs/art/sample/tools/occlude_shots.py <暫存資料夾> boss true1x-800  # 只拍指名的（名稱見腳本的 SHOTS）
 uv run python -I docs/art/sample/tools/occlude_shots.py <暫存資料夾> --out <資料夾>    # 拍到別處（只放檔名）
 uv run python -I docs/art/sample/tools/occlude_shots.py <暫存資料夾> --measure        # 遮擋比例量測表（7 種目標 × 7 種前排 × 高度 0～3）
@@ -309,6 +309,9 @@ uv run python -I docs/art/sample/tools/occlude_shots.py <暫存資料夾> --out 
 
 - 學到的：樣張端異形、頭目的地面環固定是紅色，畫在最前面（`ring` 2 筆，精英或頭目 7 筆）。要換陣營環或只要身體時，用 ctx 代理跳過前 n 次 `fill／stroke／fillRect`（`skipPaint`）。身體圖層是 `QCreature.layer` 用 `drawImage` 貼上的，跳過全部直接上色的指令就只剩身體，不用改畫法檔。
 - 平地上 Q 版人形（含外框高約 39 px）擋不到後排（腳底差 48 px）。要做遮擋情境，就用頭目、精英傀儡、高台或法杖。
+- 第 2 版學到的：比例用畫面像素算會隨解析度、裁切的小數位移跳好幾 %（同一對 37%／44%；裁切原點 0.85 格也會差 1～2 點），量測一律模型像素、原點取整。
+- 只畫被擋那一段時，**前排和被擋者差不多大**（人形、精英傀儡），外框整段落在前排身上，看起來像前排的配件（項鍊、頭帶、帽緣）；門檻拉高（70%）也一樣，只有頭目這種大很多的前排才讀成「後面一個人」（`被遮擋剪影外框.md` 9.2）。
+- 以中心切扇形做虛線，輪廓轉折多的（蜥蜴、晶塔）會碎成短斜線；真要虛線得沿輪廓長度切。
 
 ## 5. 品質底線
 
